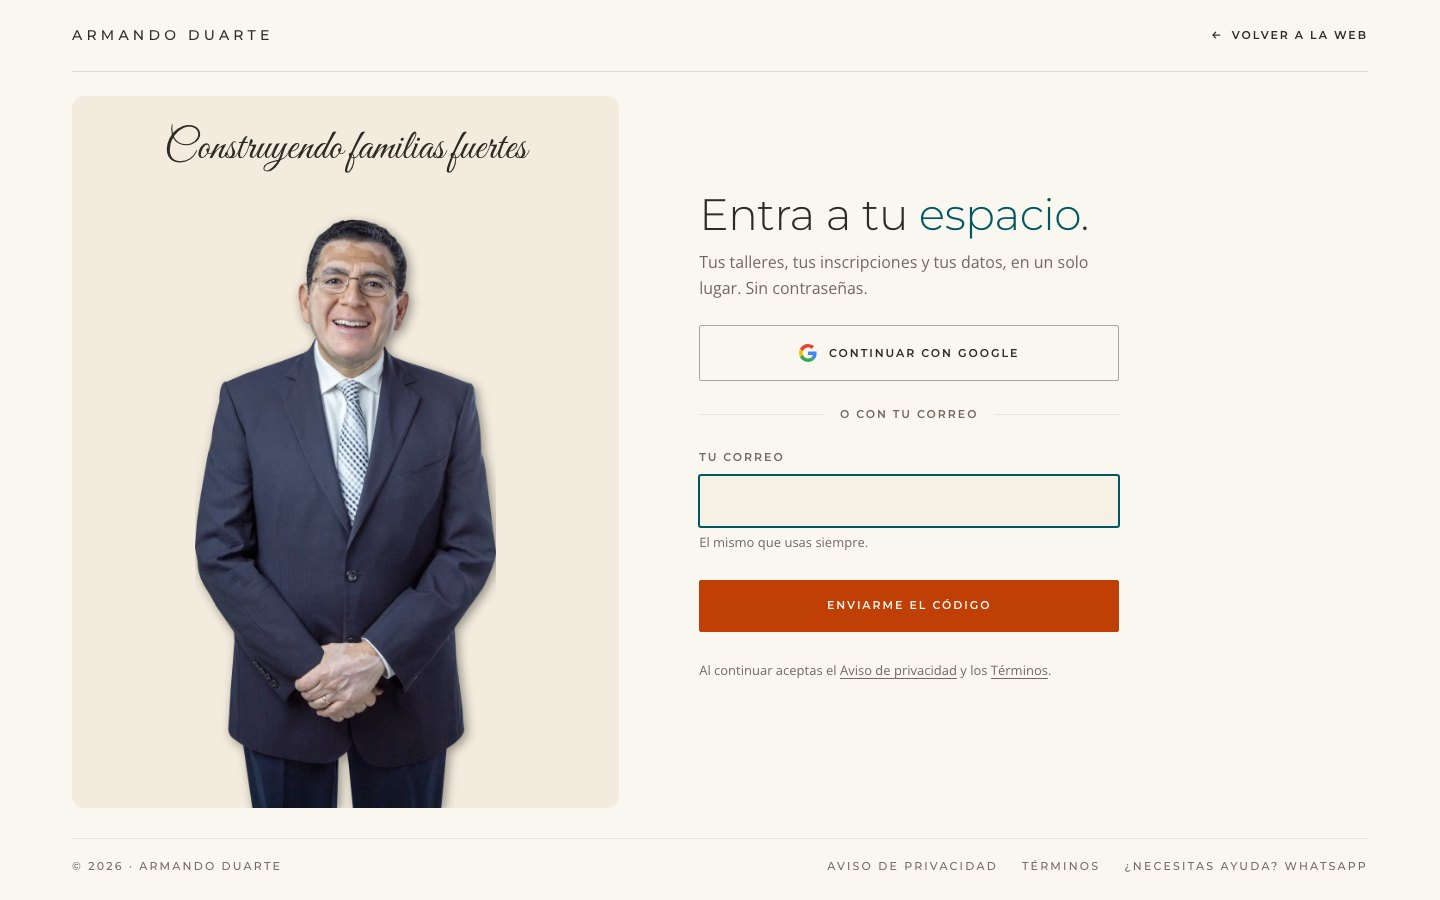
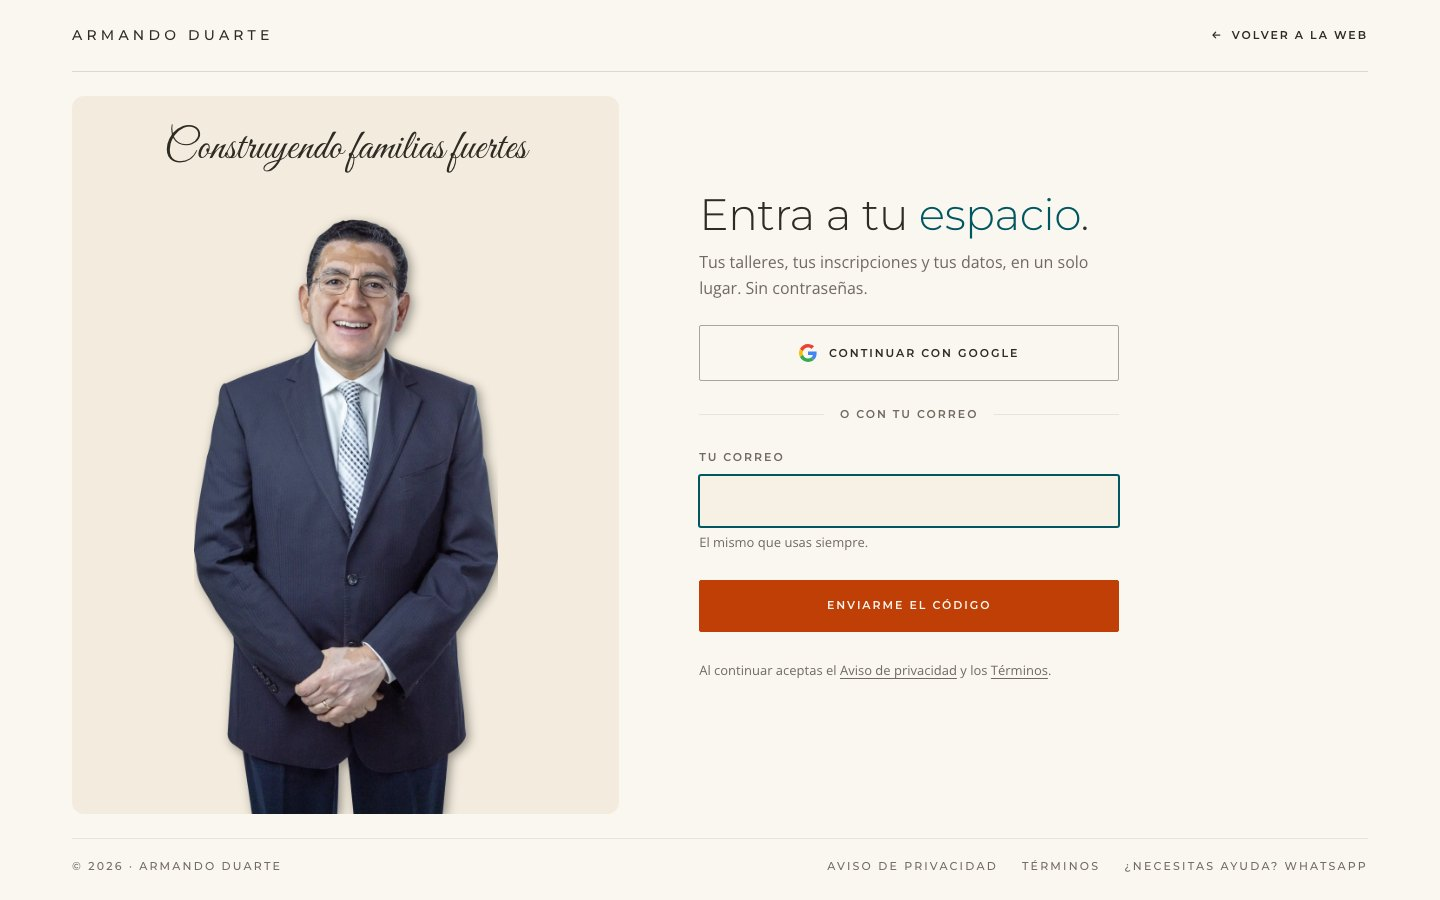
fix(familia): auditoría del #49 — el panel hasta el pie y Armando escalado por alto (#30)
El panel llega siempre a 24 px de la línea del pie. Armando (de-pie) se
escala por alto: la fila 55 (el pelo) 48 px bajo la firma y el corte del
archivo apoyado en el borde del panel; ancho automático con tope del 70 %
de la columna. 1440: 55,6 %; 1920: 65,8 %. Si el tope manda (2560×1440),
`contain` lo pinta apoyado abajo y crece el aire bajo la firma (352 px).

Test: panel.bottom = pie − 24 y (corte = borde o ancho = 70 %). Mutación:
volver a «el panel mide lo que mide Armando» → cae.

diff --git a/apps/familia/e2e/entrar-armando.spec.ts b/apps/familia/e2e/entrar-armando.spec.ts
@@ -10,12 +10,13 @@ import { PUERTO } from '../playwright.config';
  *   · **el panel no sangra**: su borde izquierdo es el del contenedor, el de
  *     la línea de la cabecera;
  *   · 80 px del panel a la columna del formulario;
- *   · 24 px de aire, como mínimo, contra la línea de la cabecera y la del pie;
+ *   · 24 px de aire, como mínimo, contra la línea de la cabecera, y **el panel
+ *     llega siempre a 24 px ±1 de la línea del pie** (auditoría del PR #49);
  *   · esquinas de 12 px;
- *   · Armando (`de-pie`) al **55 % ±1** del ancho del panel, centrado;
+ *   · Armando (`de-pie`) escalado por alto, centrado: **el corte del archivo
+ *     apoyado en el borde del panel ±1, o el ancho en su tope del 70 %**;
  *   · **el pelo** (fila 55 del archivo) a **48 px ±1** del borde de abajo de la
- *     firma;
- *   · el corte de abajo es el borde del panel (la foto llega hasta él);
+ *     firma, mientras el tope no mande;
  *   · nada se cruza: la firma con el pelo, el panel con el formulario.
  *
  * Qué NO mira: `/empezar`, que usa el mismo molde (`Pantalla conArmando`) pero
@@ -37,7 +38,7 @@ const ALTO_DEL_ARCHIVO = 2791;
 const FILA_DEL_PELO = 55;
 
 for (const vp of VIEWPORTS) {
-  test(`/entrar a ${vp.width}×${vp.height}: el panel dentro del contenedor y Armando al 55 %`, async ({ page }) => {
+  test(`/entrar a ${vp.width}×${vp.height}: el panel dentro del contenedor, hasta el pie, y Armando apoyado en su borde`, async ({ page }) => {
     await page.setViewportSize(vp);
     await page.goto(`http://127.0.0.1:${PUERTO}/entrar`, { waitUntil: 'networkidle' });
     await page.evaluate(() => document.fonts.ready);
@@ -61,6 +62,7 @@ for (const vp of VIEWPORTS) {
         columna: caja('.columna'),
         firma: caja('.panel__firma'),
         img: caja('.panel img'),
+        ajuste: getComputedStyle(img).objectFit,
       };
     });
 
@@ -73,19 +75,31 @@ for (const vp of VIEWPORTS) {
     expect(Math.abs(m.panel.left - m.cabecera.left), `el panel sangra fuera del contenedor: arranca en x=${m.panel.left.toFixed(1)} y la línea de la cabecera en x=${m.cabecera.left.toFixed(1)}`).toBeLessThanOrEqual(0.5);
     expect(Math.abs(m.columna.left - (m.panel.right + 80)), `del panel (${m.panel.right.toFixed(1)}) al formulario (${m.columna.left.toFixed(1)}) no hay 80 px`).toBeLessThanOrEqual(1);
     expect(m.panel.top, `el panel arranca ${(m.panel.top - m.cabecera.bottom).toFixed(1)} px debajo de la línea de la cabecera (mínimo 24)`).toBeGreaterThanOrEqual(m.cabecera.bottom + 24 - 0.5);
-    expect(m.panel.bottom, `el panel termina ${(m.pie.top - m.panel.bottom).toFixed(1)} px arriba de la línea del pie (mínimo 24)`).toBeLessThanOrEqual(m.pie.top - 24 + 0.5);
+    expect(Math.abs(m.panel.bottom - (m.pie.top - 24)), `el panel termina ${(m.pie.top - m.panel.bottom).toFixed(1)} px arriba de la línea del pie (tiene que llegar a 24)`).toBeLessThanOrEqual(1);
     expect(m.radio, 'las esquinas del panel').toBe('12px');
 
-    expect(Math.abs(m.img.width - 0.55 * m.panel.width), `Armando mide ${m.img.width.toFixed(1)} de ancho y el 55 % del panel es ${(0.55 * m.panel.width).toFixed(1)}`).toBeLessThanOrEqual(1);
+    /* Lo pintado y no la caja: con `contain`, si el tope del 70 % manda, la
+       caja es más alta que Armando. */
+    const escala = m.ajuste === 'contain'
+      ? Math.min(m.img.width / 1400, m.img.height / ALTO_DEL_ARCHIVO)
+      : m.img.height / ALTO_DEL_ARCHIVO;
+    const pintado = { width: 1400 * escala, height: ALTO_DEL_ARCHIVO * escala, bottom: m.img.bottom };
+    const enElTope = Math.abs(pintado.width - 0.7 * m.panel.width) <= 1;
+    expect(pintado.width, `Armando mide ${pintado.width.toFixed(1)} de ancho y el tope es el 70 % (${(0.7 * m.panel.width).toFixed(1)})`).toBeLessThanOrEqual(0.7 * m.panel.width + 1);
+    expect(
+      Math.abs(pintado.bottom - m.panel.bottom) <= 1 || enElTope,
+      `el corte del archivo no se apoya en el borde del panel: termina en ${pintado.bottom.toFixed(1)} y el panel en ${m.panel.bottom.toFixed(1)}`,
+    ).toBe(true);
     expect(Math.abs((m.img.left + m.img.right) / 2 - (m.panel.left + m.panel.right) / 2), 'Armando no está centrado en el panel').toBeLessThanOrEqual(1);
 
-    const pelo = m.img.top + FILA_DEL_PELO * (m.img.height / ALTO_DEL_ARCHIVO);
-    expect(Math.abs(pelo - (m.firma.bottom + 48)), `el pelo está ${(pelo - m.firma.bottom).toFixed(1)} px debajo de la firma (48)`).toBeLessThanOrEqual(1);
-    expect(m.img.bottom, 'la foto termina antes del borde del panel: el corte no es el del panel').toBeGreaterThanOrEqual(m.panel.bottom - 1);
+    const pelo = pintado.bottom - pintado.height + FILA_DEL_PELO * escala;
+    if (!enElTope) {
+      expect(Math.abs(pelo - (m.firma.bottom + 48)), `el pelo está ${(pelo - m.firma.bottom).toFixed(1)} px debajo de la firma (48)`).toBeLessThanOrEqual(1);
+    }
 
     expect(m.firma.bottom, 'la firma se cruza con el pelo').toBeLessThanOrEqual(pelo);
     expect(m.panel.right, 'el panel se cruza con el formulario').toBeLessThan(m.columna.left);
 
-    console.log(`${vp.width}: panel x ${m.panel.left.toFixed(0)}–${m.panel.right.toFixed(0)}, y ${m.panel.top.toFixed(0)}–${m.panel.bottom.toFixed(0)} · cabecera ${m.cabecera.left.toFixed(0)}/${m.cabecera.bottom.toFixed(0)} · pie ${m.pie.top.toFixed(0)} · formulario x ${m.columna.left.toFixed(0)} · Armando ${m.img.width.toFixed(0)} (${(100 * m.img.width / m.panel.width).toFixed(1)} %) · pelo ${(pelo - m.firma.bottom).toFixed(1)} bajo la firma`);
+    console.log(`${vp.width}: panel x ${m.panel.left.toFixed(0)}–${m.panel.right.toFixed(0)}, y ${m.panel.top.toFixed(0)}–${m.panel.bottom.toFixed(0)} · cabecera ${m.cabecera.left.toFixed(0)}/${m.cabecera.bottom.toFixed(0)} · pie ${m.pie.top.toFixed(0)} · formulario x ${m.columna.left.toFixed(0)} · Armando ${pintado.width.toFixed(0)}×${pintado.height.toFixed(0)} (${(100 * pintado.width / m.panel.width).toFixed(1)} %${enElTope ? ', en el tope' : ''}), corte en ${pintado.bottom.toFixed(1)} · pelo ${(pelo - m.firma.bottom).toFixed(1)} bajo la firma`);
   });
 }

diff --git a/apps/familia/src/estilos.css b/apps/familia/src/estilos.css
@@ -118,17 +118,15 @@ img,svg{display:block;max-width:100%}
   }
   .marco--con-armando .cab{grid-column:1 / -1;grid-row:1}
   .marco--con-armando .panel{
-    grid-column:2;grid-row:2;align-self:start;margin-top:24px;
+    grid-column:2;grid-row:2;margin-top:24px;
     display:flex;flex-direction:column;align-items:center;
     background:var(--calido);border-radius:12px;overflow:hidden;
     /* La firma, a la misma altura que tenía (la cabecera más 6vh): el panel
        ahora arranca 24 px más abajo. */
     padding-top:calc(clamp(32px,6vh,72px) - 24px);
-    /* Alto: el de su contenido (la firma y Armando), con techo en lo que queda
-       de pantalla: 72 de cabecera, 24 de aire y 86 del pie, que ya trae sus
-       24 de aire arriba de la línea (24 + 18 + 1 + 18,7 de texto + 24 de
-       abajo, medido a 1440). Ver «Armando» abajo. */
-    max-height:calc(100svh - 72px - 24px - 86px);
+    /* Alto: el de la fila, siempre (auditoría del PR #49). Se estira hasta el
+       pie, que trae sus 24 px de aire arriba de la línea; Armando no le aporta
+       altura (va en absoluto) y se escala a lo que haya. */
   }
   .marco--con-armando .marco__principal{grid-column:4;grid-row:2;justify-content:flex-start;padding:40px 0 56px}
   .marco--con-armando .pie{grid-column:1 / -1;grid-row:3;padding-top:24px}
@@ -136,27 +134,29 @@ img,svg{display:block;max-width:100%}
 /* La firma, en la Great Vibes de la web. En `--tinta` y no en naranja: en esta
    pantalla el naranja es del botón y de nadie más (D26). */
 .panel__firma{font-family:var(--script);font-weight:400;font-size:var(--script-size);line-height:1.1;color:var(--tinta);text-align:center;padding:0 32px}
-/* ── Armando: al 55 %, centrado, el pelo a 48 px de la firma (orden #30) ──
-   La silueta `de-pie` de la #28 B, más chica: **55 % del ancho de la
-   columna**, centrada. **La fila 55 del archivo** (donde arranca el pelo;
-   30–54 es un halo de alfa ≤ 30, medido en la #28 A) queda a **48 px** del
-   borde de abajo de la firma: la figura empieza 48 px debajo de la firma y la
-   foto sube 55/1400 de su ancho (`margin-top` en %, que se mide sobre el ancho
-   de la figura: 55 % de él). El halo queda en esos 48 px, como sombra suave.
+/* ── Armando: escalado por alto, el corte apoyado en el borde (orden #30) ──
+   Primera versión (PR #49): al 55 % del ancho, con el panel a la medida de
+   Armando; a 1920 eso dejaba una franja crema entre el panel y el pie. La
+   auditoría del CEO lo dio vuelta: **el panel llega siempre hasta 24 px sobre
+   la línea del pie y Armando se escala por alto**.
 
-   **El corte de abajo es el borde del panel**, siempre, y por eso el panel
-   mide lo que mide su contenido en vez de estirarse hasta el pie:
-   · a 1440×900 y a 1920×1080 Armando entra entero (termina en el 808 y en el
-     869): con un panel estirado hasta el pie, el corte recto del archivo (a
-     la altura de los muslos) quedaba flotando 30 y 125 px por encima del
-     borde. Con el panel a la medida, el borde de abajo del panel es el corte
-     del archivo, y debajo queda crema hasta el pie;
-   · en una pantalla más baja (1440×800, por ejemplo) no entra, y el techo
-     del panel (`max-height`) lo corta 24 px arriba de la línea del pie.
+   · La figura va de 48 px debajo de la firma al borde de abajo del panel.
+   · La foto mide `100% / (1 − 55/2791)` de ese alto, anclada abajo: la fila
+     55 del archivo (donde arranca el pelo; 30–54 es un halo de alfa ≤ 30,
+     #28 A) cae en el borde de arriba de la figura —48 px bajo la firma— y la
+     última fila (el corte, a la altura de los muslos) **en el borde del
+     panel**. El ancho sale del alto (`width:auto`), centrado.
+   · Tope: el 70 % del ancho de la columna. Medido, no manda ni a 1440×900
+     (55,6 %) ni a 1920×1080 (65,7 %); empieza a mandar cuando el alto de la
+     figura pasa de ~1,37 veces el ancho del panel (una pantalla de 2560×1440,
+     por ejemplo). Si manda, `contain` pinta a Armando más chico **pero
+     apoyado abajo**: el corte sigue en el borde y lo que crece es el aire
+     entre la firma y el pelo. Se eligió eso y no lo contrario (pelo a 48 y el
+     corte flotando), que es justo lo que la auditoría pidió evitar.
 
    Lo vigila `e2e/entrar-armando.spec.ts`. */
-.panel__foto{position:relative;width:100%;margin-top:48px;flex:none}
-.panel__armando{display:block;width:55%;height:auto;margin:calc(-55% * 55 / 1400) auto 0}
+.panel__foto{position:relative;width:100%;margin-top:48px;flex:1 1 0;min-height:0}
+.panel__armando{position:absolute;bottom:0;left:0;right:0;margin:0 auto;height:calc(100% / (1 - 55 / 2791));width:auto;max-width:70%;object-fit:contain;object-position:center bottom}
 
 .titulo{font-family:var(--display);font-weight:300;font-size:clamp(30px,3.4vw,44px);line-height:1.1;letter-spacing:-.01em;color:var(--tinta);text-wrap:balance}
 /* La palabra acentuada (B.2): teal, nunca naranja — el naranja es del botón. */

diff --git a/docs/informes/30/LEEME.md b/docs/informes/30/LEEME.md
@@ -8,30 +8,35 @@ Capturas antes/después de `/entrar` a 1440, 1920 y 390, más `/empezar` despué
   - El borde izquierdo del panel es el de la línea de la cabecera.
   - El panel tiene esquinas de 12 px y deja 24 px de aire bajo la cabecera.
   - El formulario arranca 80 px después del panel.
-- **Armando** (la silueta `de-pie`) va al **55 %** del ancho del panel, centrado, con el pelo (fila 55) a **48 px** de la firma. La firma no se movió.
-- **Panel a la medida, no estirado.** A 1440 y a 1920 Armando entra entero. Si el panel se estirara hasta el pie, el corte recto del archivo (a los muslos) quedaría flotando 30 y 125 px por encima del borde. Por eso el panel mide lo que mide su contenido y su borde inferior es el corte. Tiene un techo (24 px sobre la línea del pie) que lo corta solo en pantallas más bajas.
+- **Ajuste de la auditoría del PR #49: el panel llega siempre hasta 24 px sobre la línea del pie y Armando se escala por alto.** La figura va de 48 px bajo la firma al borde del panel. La foto mide `100% / (1 − 55/2791)` de ese alto, anclada abajo: la fila 55 (el pelo) cae 48 px bajo la firma y la última fila (el corte del archivo) en el borde del panel. El ancho sale del alto, centrado, con tope en el 70 % de la columna. La firma no se movió.
 - **Apilado (< 1100): firma arriba del formulario, sin foto.** La foto al 40 % no entra: con ella y la firma, a 390×844 «Enviarme el código» bajaba de y = 627 a ≈ 890, por debajo del pliegue. Sin foto queda en y = 570. Se fue el retrato redondo de 64 px.
 
-| | panel x | panel y | línea cabecera | línea pie | formulario x | Armando | pelo bajo la firma |
+| | panel x | panel y | línea pie | formulario x | Armando | corte | pelo bajo la firma |
 |---|---|---|---|---|---|---|---|
-| 1440×900 | 72–619 | 96–808 | 72 / 72 | 838 | 699 | 301 (55,0 %) | 48,0 |
-| 1920×1080 | 260–854 | 96–869 | 260 / 72 | 1018 | 934 | 327 (55,0 %) | 48,0 |
+| 1440×900 | 72 (= cabecera) – 619 | 96–814 | 838 | 699 | 304×606 (55,6 %) | 814,3 = borde | 48,0 |
+| 1920×1080 | 260 (= cabecera) – 854 | 96–994 | 1018 | 934 | 391×779 (65,8 %) | 994,3 = borde | 48,0 |
+| 2560×1440 | — | — | — | — | 416 (**70,0 %, tope**) | = borde | **352** |
 
 ## Test
 
-`apps/familia/e2e/entrar-armando.spec.ts`, reescrito para la #30, a 1440 y 1920. Comprueba:
+`apps/familia/e2e/entrar-armando.spec.ts`, a 1440 y 1920. Comprueba:
 - `panel.left = cabecera.left` (±0,5) y `panel.right + 80 = formulario.left` (±1);
-- 24 px como mínimo contra las dos líneas, y radio de 12 px;
-- Armando al 55 % ±1 y centrado, y el pelo a 48 ±1 bajo la firma;
-- que la foto llega al borde del panel y que nada se cruza.
+- **`panel.bottom = pie.top − 24` (±1)**, al menos 24 px bajo la cabecera, y radio de 12 px;
+- con el rectángulo **pintado** (con `contain` la caja no es lo que se ve): **el corte apoyado en el borde del panel (±1), o el ancho en el tope del 70 %**, y nunca más que el tope;
+- Armando centrado, y el pelo a 48 ±1 bajo la firma mientras el tope no mande;
+- que nada se cruza.
 
-**Mutación:** con el panel a todo el ancho (`grid-column: 1 / 3`) cae en «el panel sangra fuera del contenedor: arranca en x=0.0 y la línea de la cabecera en x=72.0» (y x=260.0 a 1920). Al devolverlo, verde.
+**Mutaciones:**
+- con el panel a todo el ancho cae en «el panel sangra fuera del contenedor: arranca en x=0.0 y la línea de la cabecera en x=72.0»;
+- **volviendo a «el panel mide lo que mide Armando»** (la versión anterior del PR) cae en «el panel termina 30.0 px arriba de la línea del pie (tiene que llegar a 24)» a 1440, y 148,9 a 1920.
+
+En los dos casos, al devolver el archivo volvió a verde.
 
 `la-entrada-a-la-altura.test.tsx` cambió: apilado ya no hay ninguna imagen de Armando, sí la firma.
 
 ## Lo que decide dirección
 
-1. **El corte a dos mitades sigue en 1100 px, no en 900.** Es el de la #18; la orden nombra «< 900» como apilado. Entre 900 y 1099 la pantalla también queda apilada (firma, sin foto). Bajarlo a 900 deja el formulario en una columna de ≈ 410 px al lado del panel: se puede, pero es otra decisión.
-2. **El formulario va alineado a la izquierda de su columna**, porque las 80 px se miden hasta él. A 1920 queda aire a la derecha.
-3. **A 1920 queda crema entre el borde del panel y el pie** (de 869 a 1018), porque el panel termina donde termina Armando. La alternativa es estirar el panel, y entonces el corte del archivo se ve flotando.
+1. *(aceptada)* El corte a dos mitades sigue en 1100 px.
+2. *(aceptada)* El formulario va alineado a la izquierda de su columna.
+3. **Cuando manda el tope del 70 %.** Pasa cuando el alto disponible supera ~1,37 veces el ancho del panel; en las pantallas medidas, solo a 2560×1440 (`entrar-2560-despues.jpg`). No se pueden cumplir las dos cosas: con el pelo a 48 px de la firma, Armando más angosto es más bajo y el corte quedaría flotando. Elegí que el corte siga apoyado en el borde (es lo que la auditoría pidió evitar) y lo que crece es el aire entre la firma y el pelo: **352 px a 2560×1440**. Si molesta, la salida es subir el tope (al 80 %, calculado, el aire baja a ≈ 236) o bajar la firma en pantallas altas: es decisión de dirección.
 4. `retrato-128.webp` quedó sin uso en `apps/familia/public`. No lo borré.
